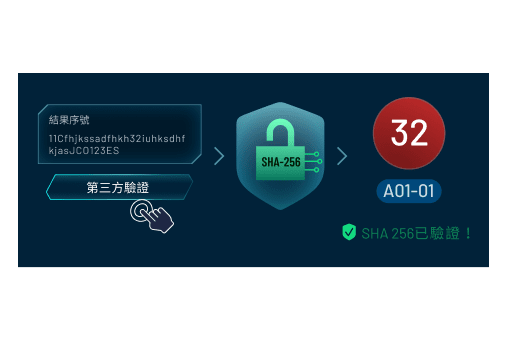
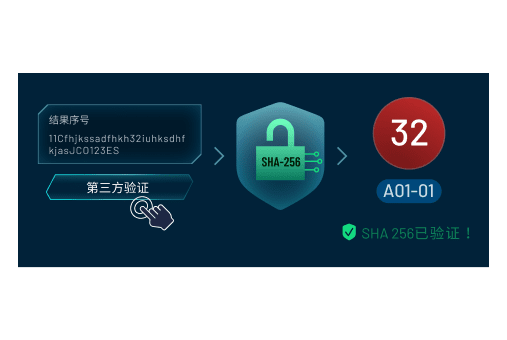
update error

Changed region(s): [[0.2367, 0.5294, 0.355, 0.7059], [0.8284, 0.6471, 0.9172, 0.7059], [0.1479, 0.3235, 0.1775, 0.3824]]

diff --git a/json/multi-language/lang_All_Live_Game.js b/json/multi-language/lang_All_Live_Game.js
@@ -329,14 +329,14 @@ var arrLang = {
       'DragonTiger_slogan': '速战速决。',
       'MahjongLuckyWheel_slogan': '双重乐趣，三倍刺激！',
       'SqueezeBaccarat_slogan': '前所未有的刺激。',
-      'GodofFortuneSicBo_slogan': '意想不到的回報。',
+      'GodofFortuneSicBo_slogan': '意想不到的回报。',
       'GodofFortuneRoulette_slogan': '挑战经典的全新力作。',
       'WinThreeCards_slogan': '一个「炸」脑的游戏。',
       'SpeedBaccarat_slogan': '高速快感，让人心跳加速。',
-      'BC_MahjongLuckyWheel_slogan': '转出黎明惊喜。',
+      'BC_MahjongLuckyWheel_slogan': '转出崭新惊喜。',
       'BC_SicBo_slogan': '一掷定输赢。',
       'BC_Roulette_slogan': '极致欧式玩乐体验。',
-      'BC_WinThreeCards_slogan': '兩門對決，三張定勝負。',
+      'BC_WinThreeCards_slogan': '两门对决，三张定胜负。',
       'BC_BullBull_slogan': '狂牛对战，庄闲决雌雄。',
   
       //Cookie popup
